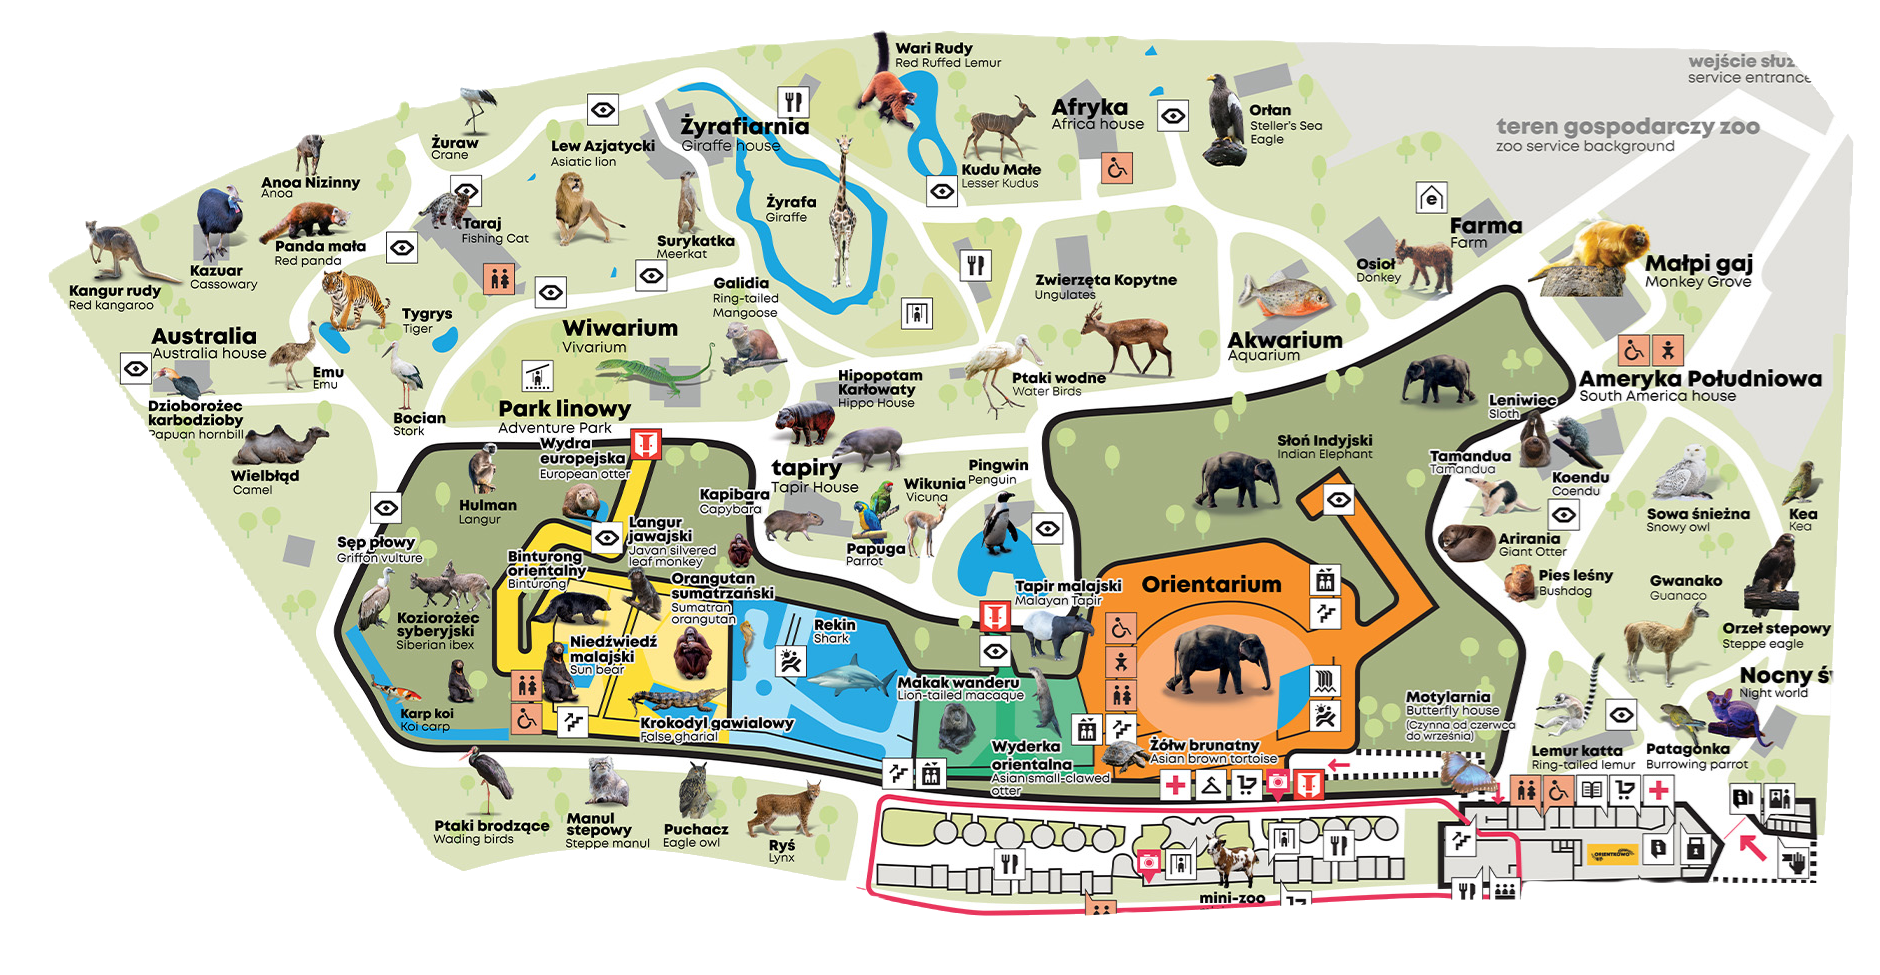
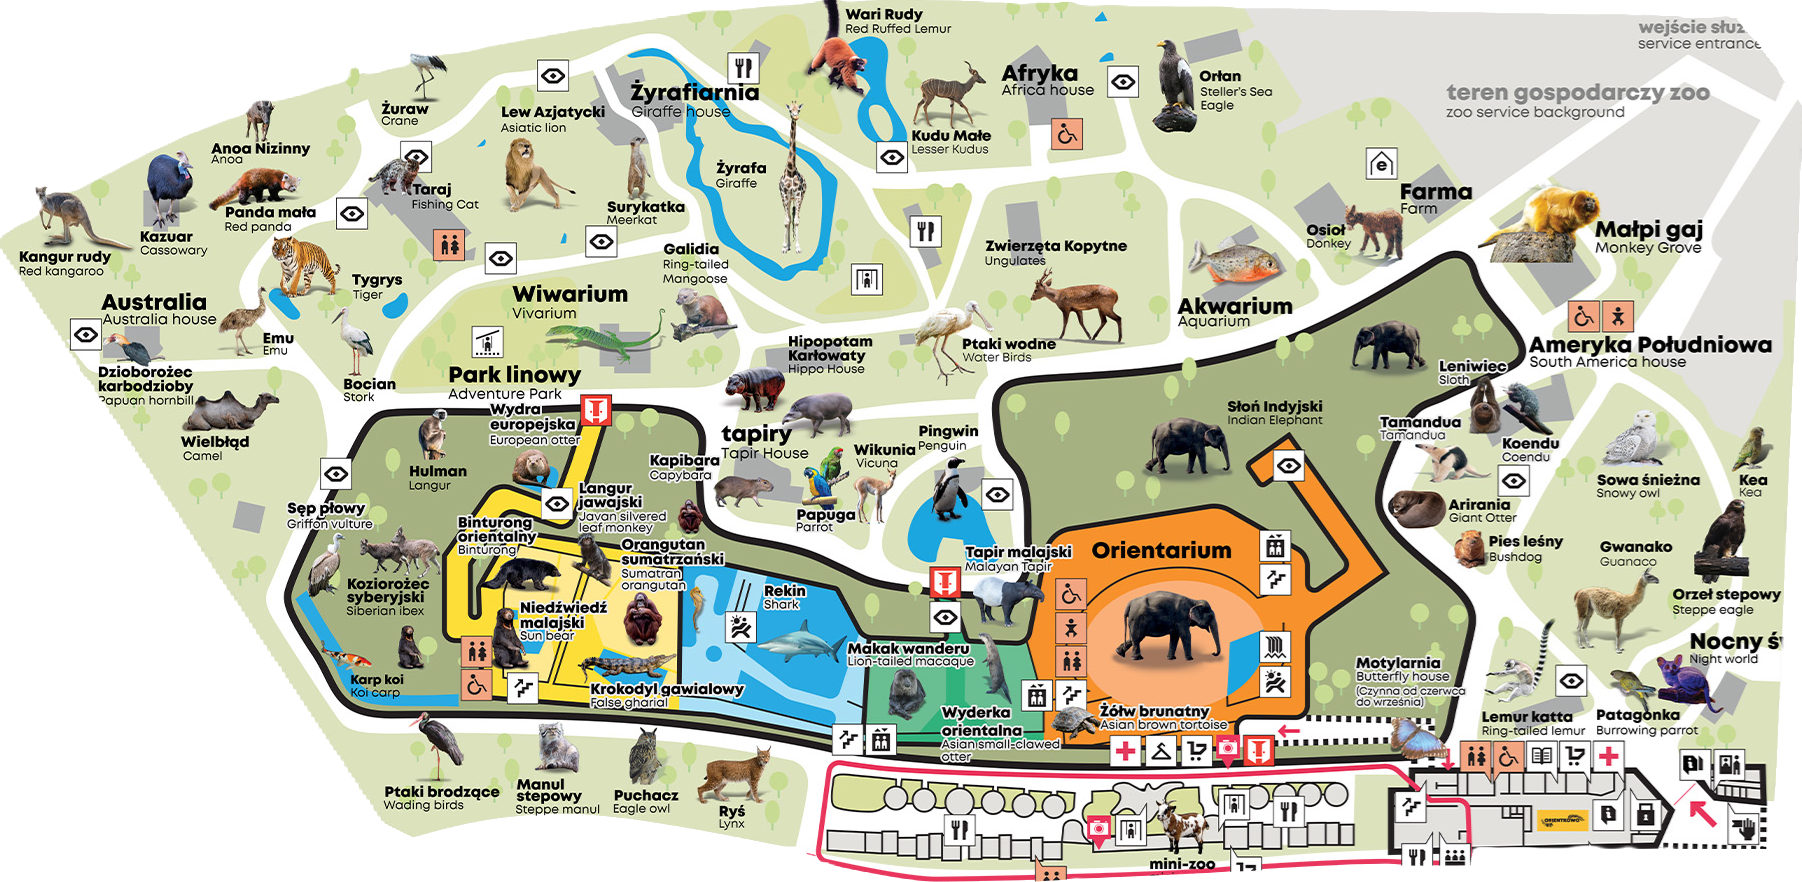
map image georeferenecing using affine transformation by 3 points; somewhere latlong is flipped

diff --git a/src/layout/panels/MapPanel.tsx b/src/layout/panels/MapPanel.tsx
@@ -3,11 +3,20 @@ import L from 'leaflet';
 import mapImage from '@/assets/map.png'
 import 'leaflet/dist/leaflet.css';
 import './MapPanel.css';
+import { computeAffineTransform, gpsToPixel, metersPerDegreeLng, type ControlPoint } from '@/service/geoTransformation';
 
 const MapPanel = () => {
   const mapRef = useRef<HTMLDivElement>(null);
   const leafletMapRef = useRef<L.Map | null>(null);
   const [gpsStatus, setGpsStatus] = useState('Acquiring GPS location...');
+  // transformation
+  const CONTROL_POINTS: [ControlPoint, ControlPoint, ControlPoint] = [
+    { geo: { lat: 51.75116105683058, lng: 19.436786676250716 }, pixel: { x: 0, y: 0 } },
+    { geo: { lat: 51.744968125338296, lng: 19.461429908793267 }, pixel: { x: 1802, y: 882 } },
+    { geo: { lat: 51.7483180437013, lng: 19.45106338292666 }, pixel: { x: 901, y: 441 } },
+  ];
+
+  const affineTransform = computeAffineTransform(CONTROL_POINTS);
 
   useEffect(() => {
     if (!mapRef.current || leafletMapRef.current) return;
@@ -57,27 +66,25 @@ const MapPanel = () => {
       let accuracyCircle: L.Circle | null = null;
 
       const onLocationFound = (e: L.LocationEvent) => {
-        const radius = e.accuracy / 2;
-        const latlng = e.latlng;
-
-        if (!userMarker || !accuracyCircle) {
-          userMarker = L.marker(latlng)
-            .addTo(map)
-            .bindPopup("You are here");
-
-          accuracyCircle = L.circle(latlng, radius).addTo(map);
-        } else {
-          userMarker.setLatLng(latlng);
-          accuracyCircle.setLatLng(latlng);
-          accuracyCircle.setRadius(radius);
-        }
-
-        setGpsStatus(
-          `Live GPS: ${latlng.lat.toFixed(5)}, ${latlng.lng.toFixed(
-            5
-          )} (±${Math.round(radius)}m)`
-        );
-      };
+      const { lat, lng } = e.latlng;
+      const { x, y } = gpsToPixel(affineTransform, lat, lng);
+      const imgLatLng = L.latLng(y, x); // remember: latlng = [pixelY, pixelX]
+          
+      // Optional: scale accuracy circle radius from meters to pixels
+      const pixelsPerMeterX = Math.hypot(affineTransform.a, affineTransform.d) / metersPerDegreeLng(lat);
+      const radiusPx = (e.accuracy / 2) * pixelsPerMeterX; // rough approximation, see note below
+          
+      if (!userMarker || !accuracyCircle) {
+        userMarker = L.marker(imgLatLng).addTo(map).bindPopup("You are here");
+        accuracyCircle = L.circle(imgLatLng, radiusPx).addTo(map);
+      } else {
+        userMarker.setLatLng(imgLatLng);
+        accuracyCircle.setLatLng(imgLatLng);
+        accuracyCircle.setRadius(radiusPx);
+      }
+    
+      setGpsStatus(`Live GPS: ${lat.toFixed(5)}, ${lng.toFixed(5)} (±${Math.round(e.accuracy)}m)`);
+    };
 
       const onLocationError = (e: L.ErrorEvent) => {
         setGpsStatus(`GPS Error: ${e.message}`);

diff --git a/src/service/geoTransformation.ts b/src/service/geoTransformation.ts
@@ -1,0 +1,68 @@
+export interface GeoPoint { lat: number; lng: number }
+export interface PixelPoint { x: number; y: number }
+export interface ControlPoint { geo: GeoPoint; pixel: PixelPoint }
+
+// --- Solve a 3x3 linear system with Cramer's rule ---
+function det3x3(m: number[][]): number {
+  return (
+    m[0][0] * (m[1][1] * m[2][2] - m[1][2] * m[2][1]) -
+    m[0][1] * (m[1][0] * m[2][2] - m[1][2] * m[2][0]) +
+    m[0][2] * (m[1][0] * m[2][1] - m[1][1] * m[2][0])
+  );
+}
+
+function solve3x3(A: number[][], b: number[]): [number, number, number] {
+  const detA = det3x3(A);
+  if (Math.abs(detA) < 1e-12) {
+    throw new Error('Control points are collinear or duplicated — pick 3 non-collinear points.');
+  }
+
+  const replaceCol = (col: number) =>
+    A.map((row, i) => row.map((v, j) => (j === col ? b[i] : v)));
+
+  const x = det3x3(replaceCol(0)) / detA;
+  const y = det3x3(replaceCol(1)) / detA;
+  const z = det3x3(replaceCol(2)) / detA;
+
+  return [x, y, z];
+}
+
+// --- Compute the affine transform from 3 control points ---
+export interface AffineTransform {
+  a: number; b: number; c: number; // for pixel x
+  d: number; e: number; f: number; // for pixel y
+}
+
+
+
+// EXPORT
+/**
+ * Approximate meters per degree of longitude at a given latitude.
+ * Longitude degrees shrink in real-world distance as you move away from the equator,
+ * because meridians converge toward the poles.
+ */
+export function metersPerDegreeLng(latDegrees: number): number {
+  const latRad = (latDegrees * Math.PI) / 180;
+  // WGS84 semi-major axis
+  const earthRadiusEquator = 6378137; // meters
+  return (Math.PI / 180) * earthRadiusEquator * Math.cos(latRad);
+}
+
+export function computeAffineTransform(points: [ControlPoint, ControlPoint, ControlPoint]): AffineTransform {
+  const A = points.map(p => [p.geo.lng, p.geo.lat, 1]);
+  const X = points.map(p => p.pixel.x);
+  const Y = points.map(p => p.pixel.y);
+
+  const [a, b, c] = solve3x3(A, X);
+  const [d, e, f] = solve3x3(A, Y);
+
+  return { a, b, c, d, e, f };
+}
+
+export function gpsToPixel(transform: AffineTransform, lat: number, lng: number): PixelPoint {
+  const { a, b, c, d, e, f } = transform;
+  return {
+    x: a * lng + b * lat + c,
+    y: d * lng + e * lat + f,
+  };
+}
